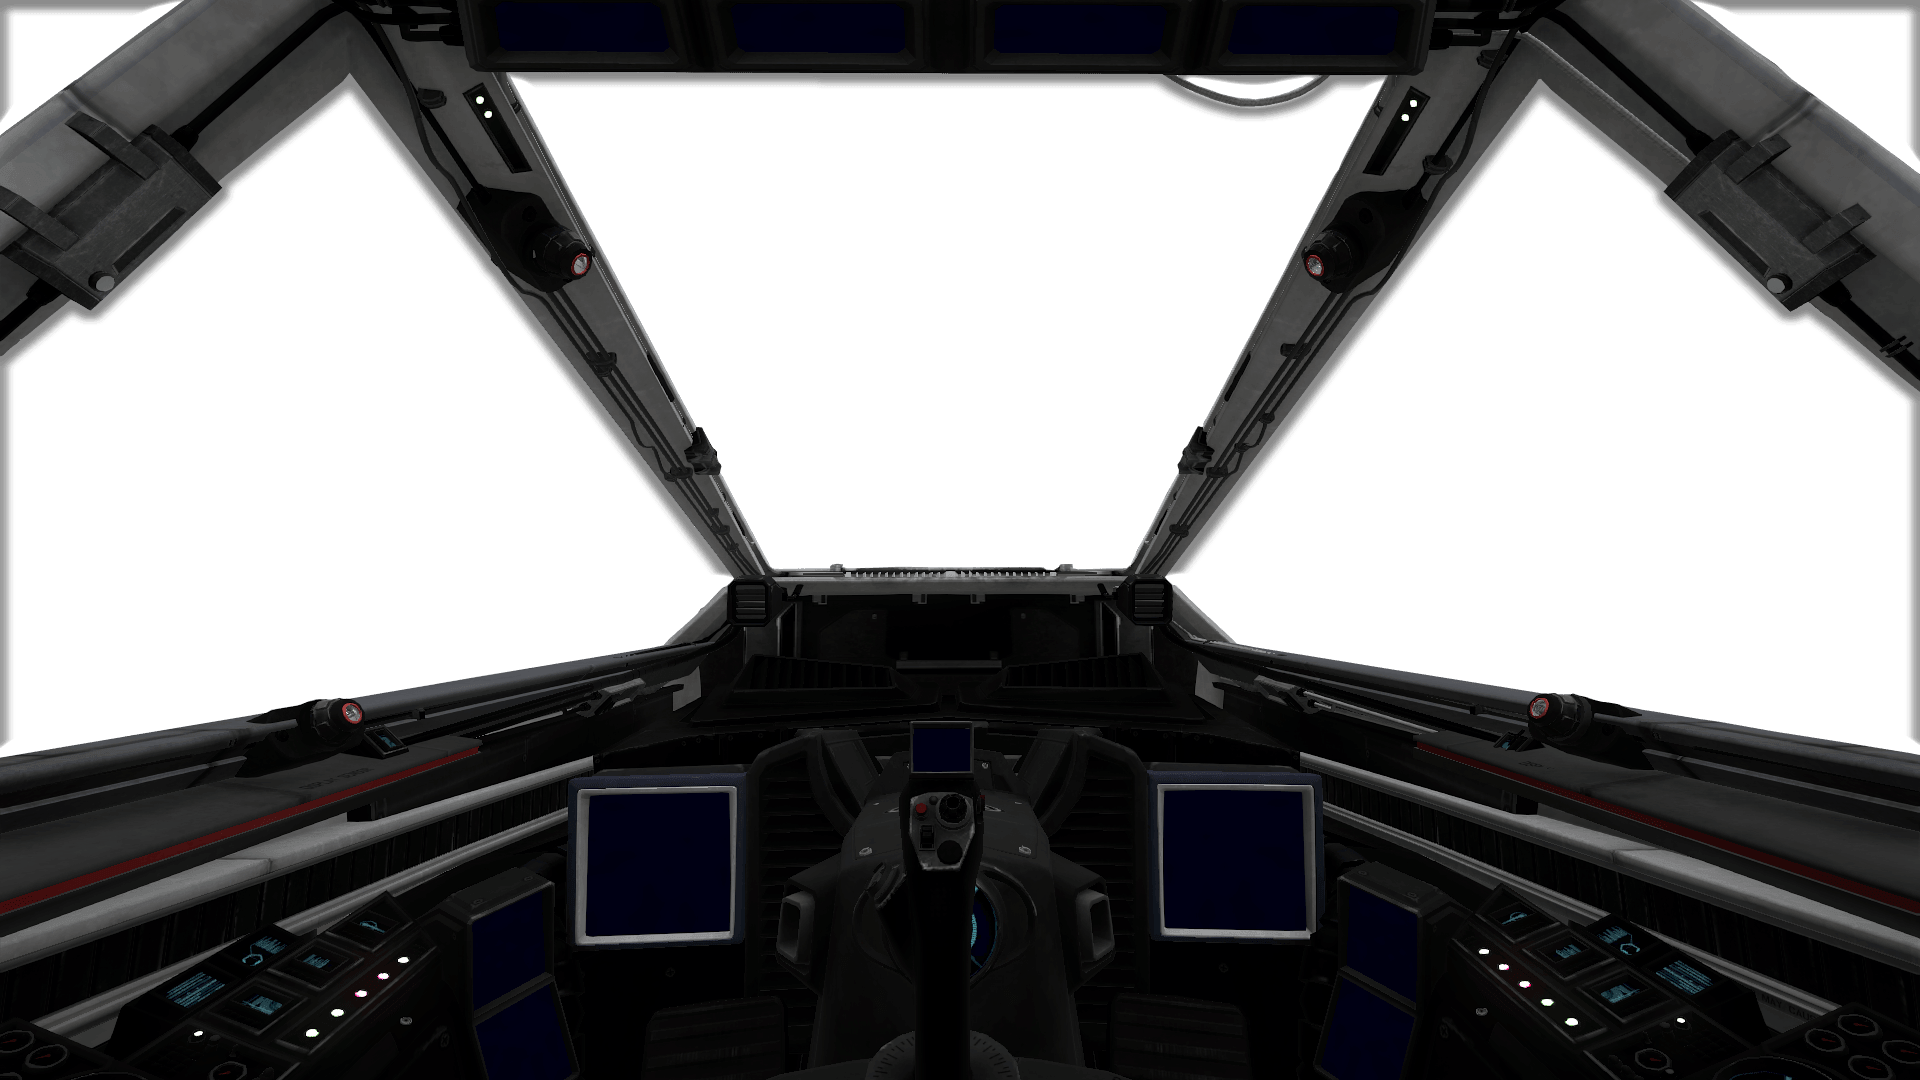
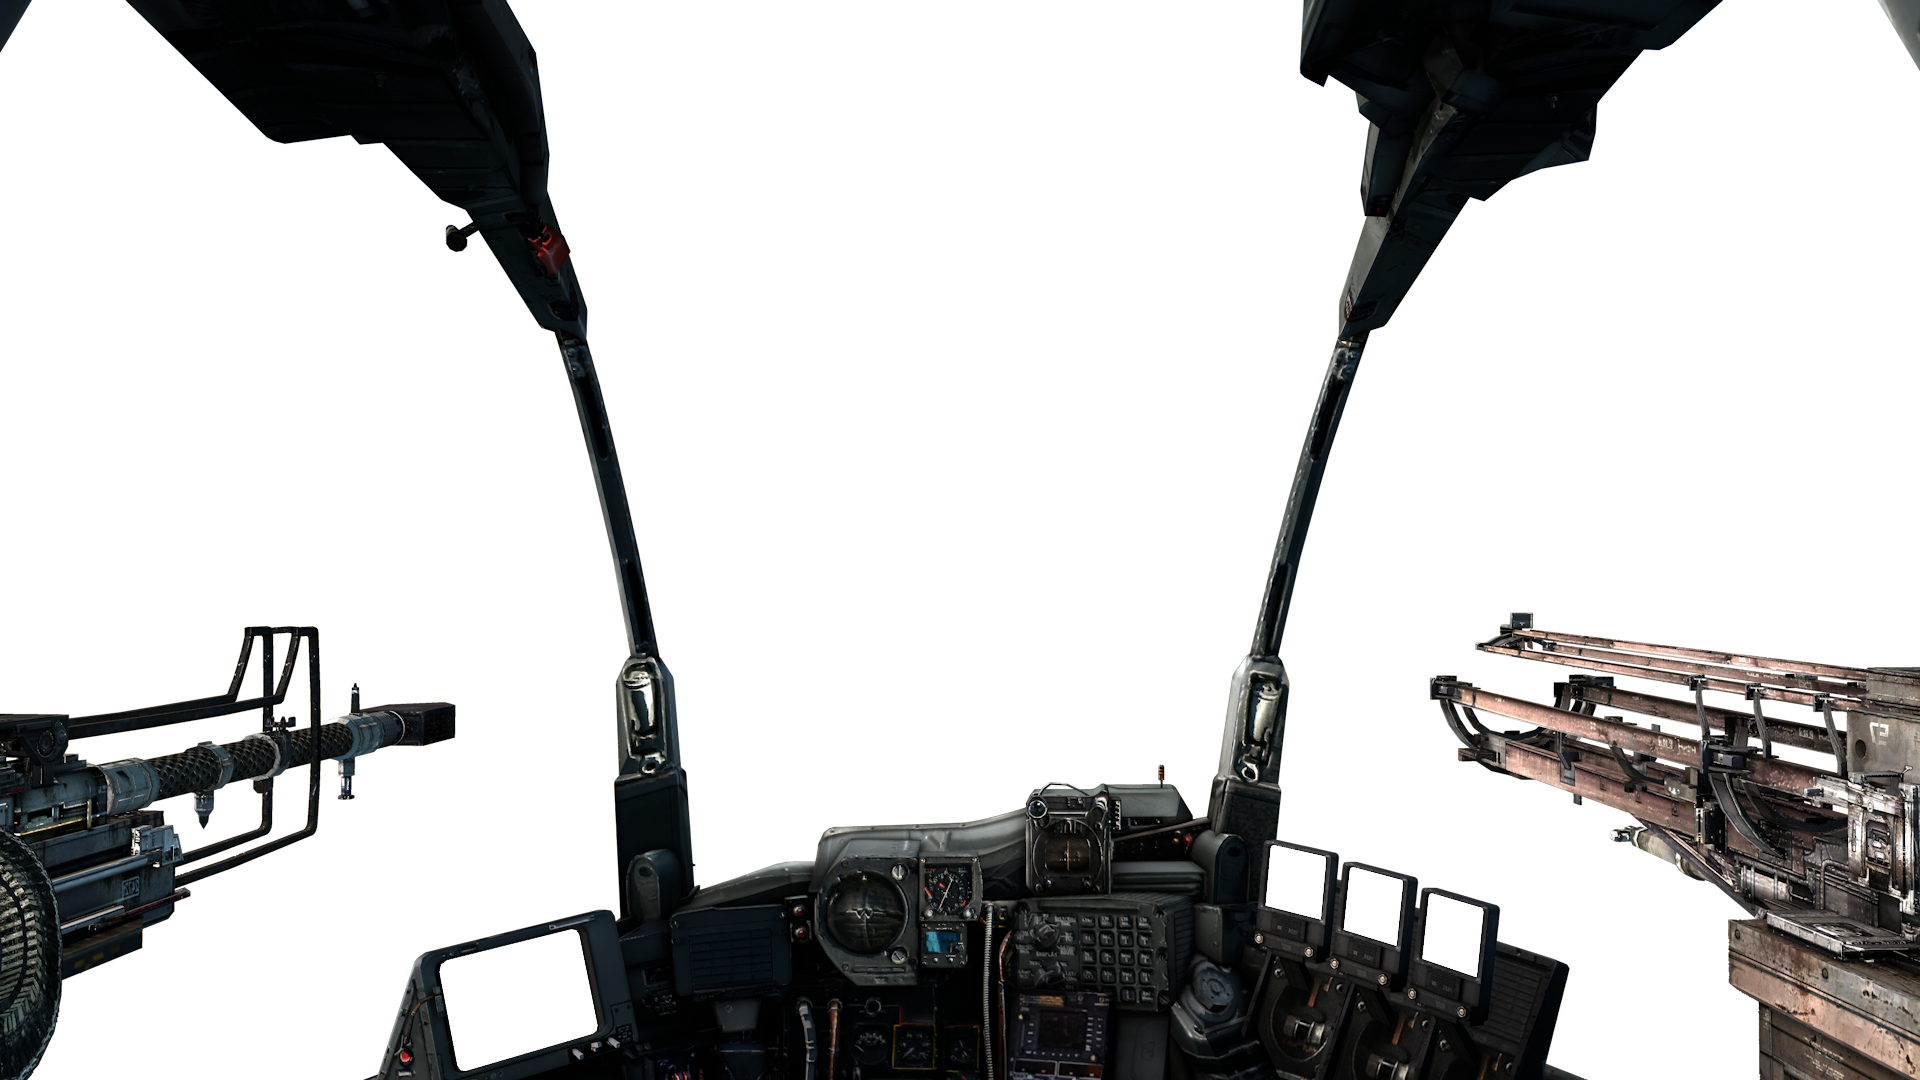
change images and moved projectile

diff --git a/js/sketch.js b/js/sketch.js
@@ -110,7 +110,7 @@ function setup() {
     y: 0,
     z: 0,
     scaleX: 3,
-    scaleY: 3,
+    scaleY: 2,
     transparent: true,
     asset: 'cockpit',
   });
@@ -481,16 +481,16 @@ class Projectile {
       rotationZ: userRotation.z
     });
     world.add(this.container);
-    this.projectile = new Box({
-      x: 0,
-      y: 0,
-      z: 0,
-      width: 0.05,
-      height: 0.05,
-      depth: 0.5,
-      red: 255,
-      blue: 0,
-      green: 0
+    this.projectile = new Cylinder({
+      x: -1,
+      y: -.5,
+      z: 3,
+      height: 1,
+      radius: .1,
+      rotationX: -90,
+      red: 57,
+      green: 255,
+      blue: 20
     });
     // add the projectile to the container
     this.container.addChild(this.projectile);
